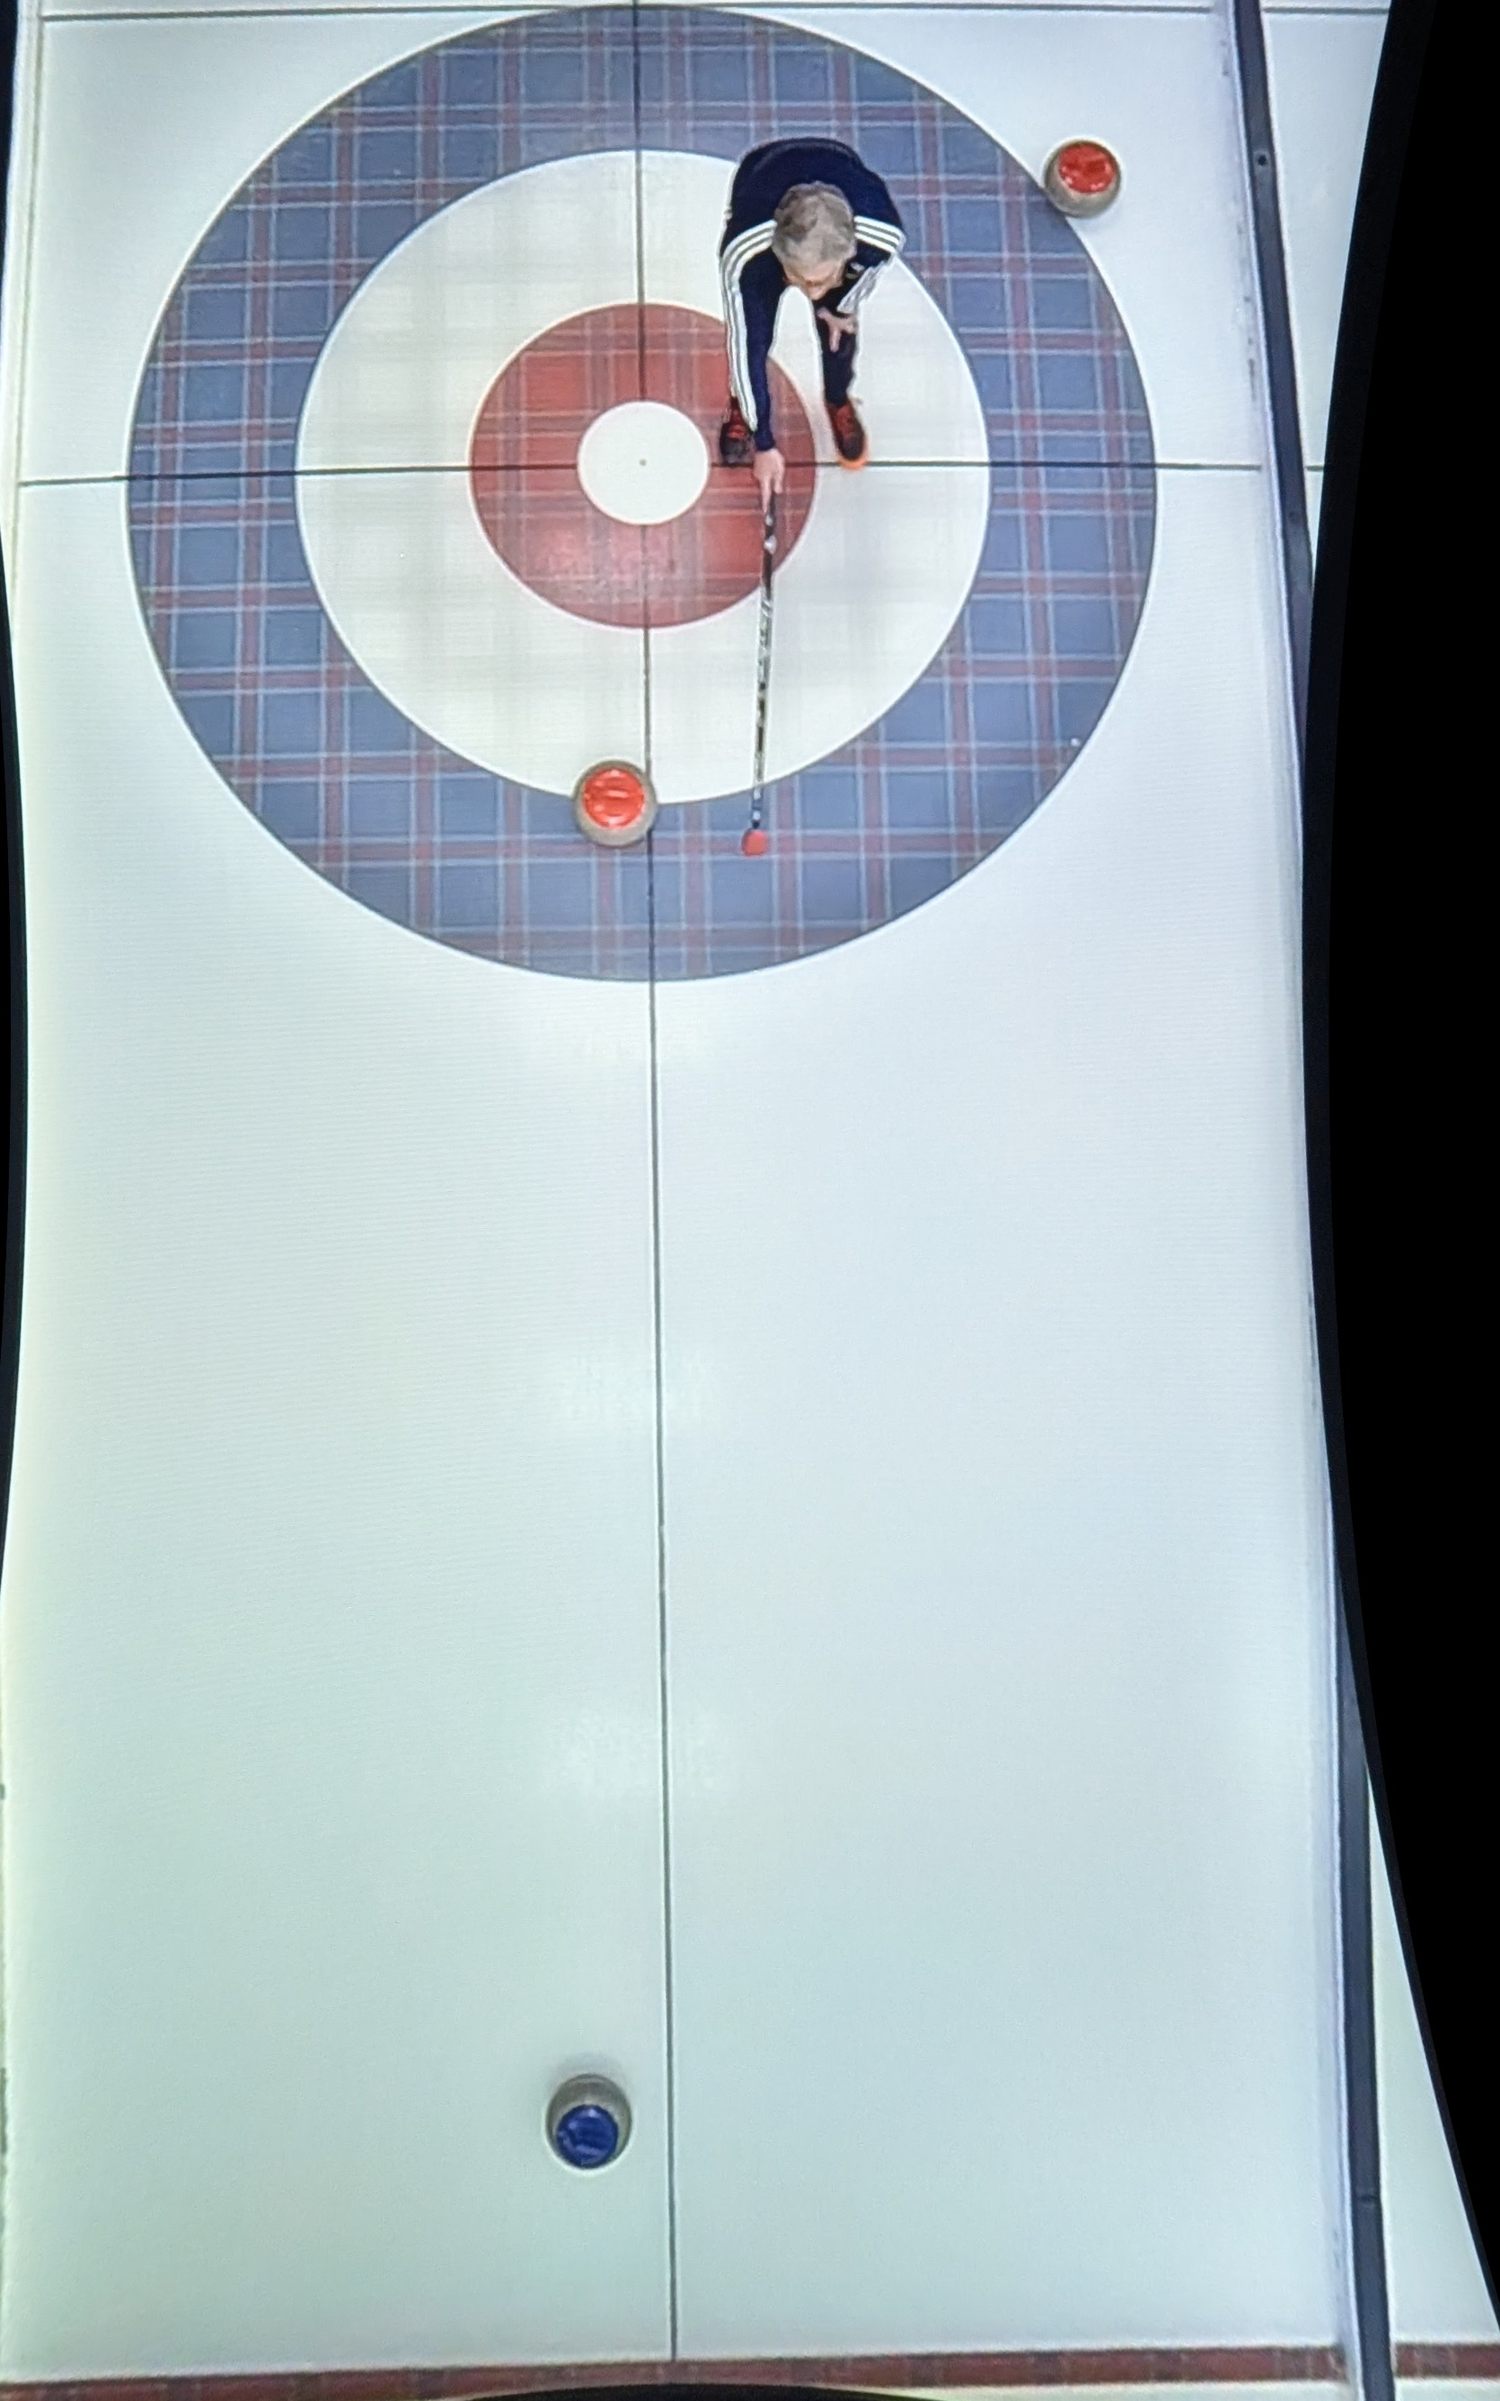
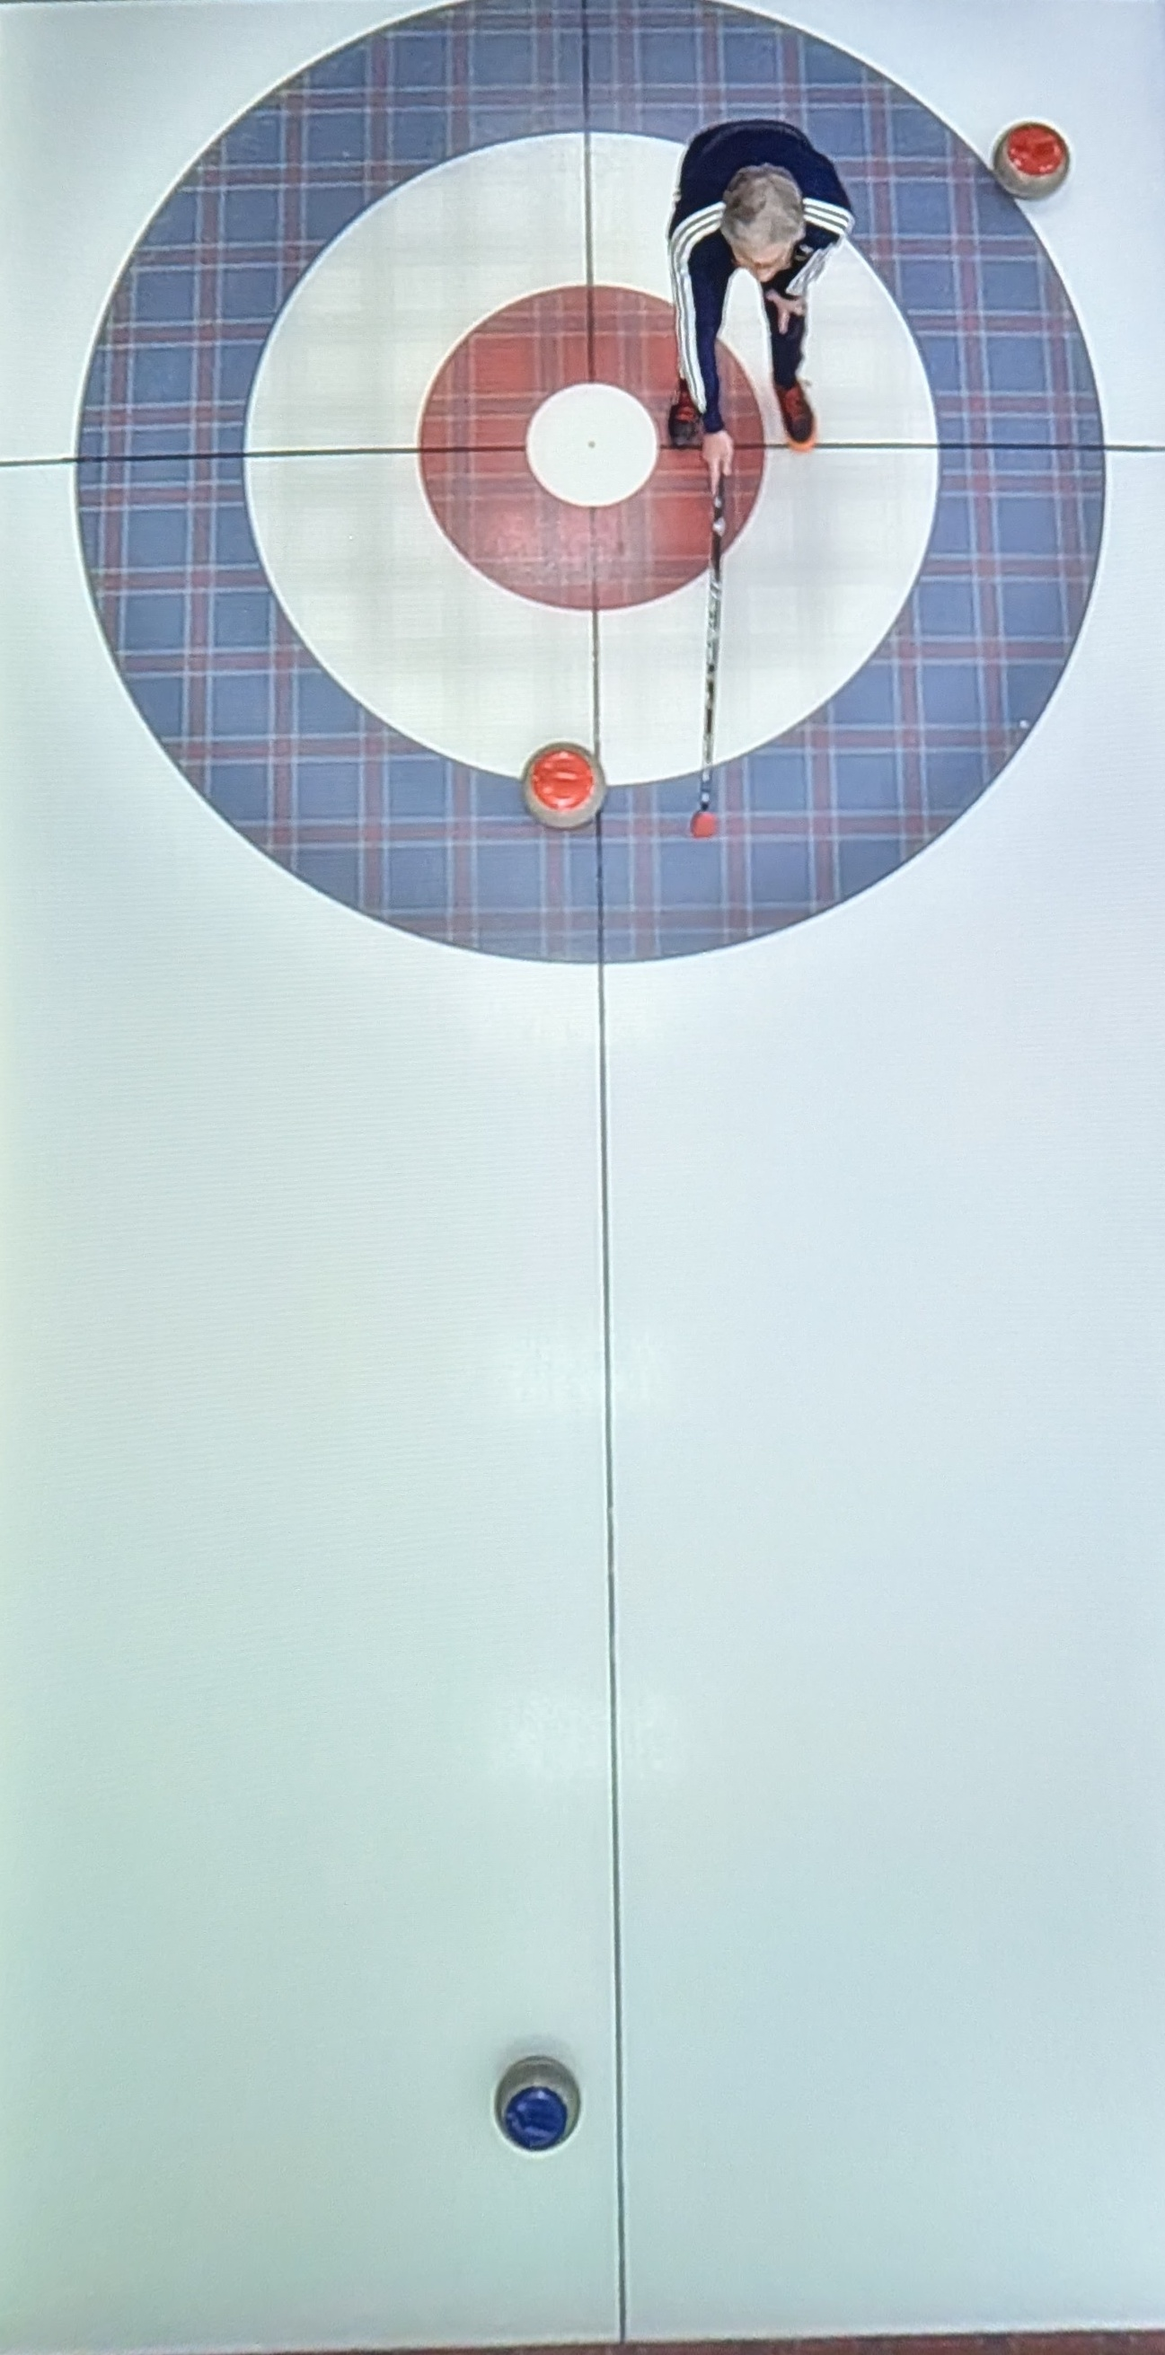
Refactor frame cropping logic and add one-time cropping script

diff --git a/one_time_crop.py b/one_time_crop.py
@@ -1,0 +1,83 @@
+import cv2
+import json
+import numpy as np
+
+IMG_PATH      = "undist_best.jpg"
+LINES_JSON    = "sheet_lines.json"
+K_PATH        = "camera_matrix.npy"
+DIST_PATH     = "dist_coeffs.npy"
+NEWK_PATH     = "new_camera_matrix.npy"
+CROP_OUT_IMG  = "undist_cropped.jpg"
+CROP_RECT_NPY = "crop_rect.npy"   # [x, y, w, h]
+
+MARGIN = 4  # pixels to move inside each boundary
+
+# Load undistorted image
+img = cv2.imread(IMG_PATH)
+if img is None:
+    raise RuntimeError("Could not read undistorted image")
+h, w = img.shape[:2]
+
+# Load lines (clicked in distorted image)
+with open(LINES_JSON, "r") as f:
+    data = json.load(f)
+lines_raw = [np.array(l, dtype=np.float32) for l in data["lines"]]
+if len(lines_raw) < 2:
+    raise RuntimeError("Need at least 2 lines")
+
+# Load camera params
+K    = np.load(K_PATH)
+dist = np.load(DIST_PATH)
+newK = np.load(NEWK_PATH)
+
+line_info = []  # list of (y_mean, x_left, x_right)
+
+for pts in lines_raw:
+    if pts.shape[0] < 2:
+        continue
+
+    # take first and last point only
+    endpoints = np.vstack([pts[0], pts[-1]]).reshape(-1, 1, 2)
+
+    # undistort endpoints into pixel coords of undistorted image
+    und = cv2.undistortPoints(endpoints, K, dist, P=newK).reshape(-1, 2)
+
+    x0, y0 = und[0]
+    x1, y1 = und[1]
+
+    x_left_line  = min(x0, x1)
+    x_right_line = max(x0, x1)
+    y_mean       = 0.5 * (y0 + y1)
+
+    line_info.append((y_mean, x_left_line, x_right_line))
+
+if len(line_info) < 2:
+    raise RuntimeError("Not enough valid lines after processing")
+
+# Horizontal limits: intersection of all line segments
+x_left  = max(li[1] for li in line_info) + MARGIN
+x_right = min(li[2] for li in line_info) - MARGIN
+
+# Vertical limits: outermost lines
+line_info.sort(key=lambda t: t[0])  # sort by y_mean
+y_top = line_info[0][0] + MARGIN          # just below top line
+y_bot = line_info[-1][0] - MARGIN         # just above bottom line
+
+# Clamp and convert to ints
+x_left  = int(max(0, min(w-1, x_left)))
+x_right = int(max(0, min(w-1, x_right)))
+y_top   = int(max(0, min(h-1, y_top)))
+y_bot   = int(max(0, min(h-1, y_bot)))
+
+if x_right <= x_left or y_bot <= y_top:
+    raise RuntimeError(f"Invalid crop box: ({x_left},{y_top})–({x_right},{y_bot})")
+
+cw = x_right - x_left
+ch = y_bot - y_top
+
+crop = img[y_top:y_top+ch, x_left:x_left+cw]
+cv2.imwrite(CROP_OUT_IMG, crop)
+np.save(CROP_RECT_NPY, np.array([x_left, y_top, cw, ch], dtype=np.int32))
+
+print("Crop rect:", x_left, y_top, cw, ch)
+print("Saved", CROP_OUT_IMG, "and", CROP_RECT_NPY)

diff --git a/capture_changed_frames.py b/capture_changed_frames.py
@@ -83,14 +83,7 @@ class FrameCropper:
         self.x, self.y, self.w, self.h = [int(v) for v in rect]
 
     def __call__(self, frame):
-        y2 = self.y + self.h
-        x2 = self.x + self.w
-        if self.x < 0 or self.y < 0 or y2 > frame.shape[0] or x2 > frame.shape[1]:
-            raise ValueError(
-                "Crop rectangle extends outside frame bounds; "
-                "update crop_rect.npy or disable --crop"
-            )
-        return frame[self.y:y2, self.x:x2]
+        return frame[self.y:self.y + self.h, self.x:self.x + self.w]
 
 
 class FrameRectifier:
